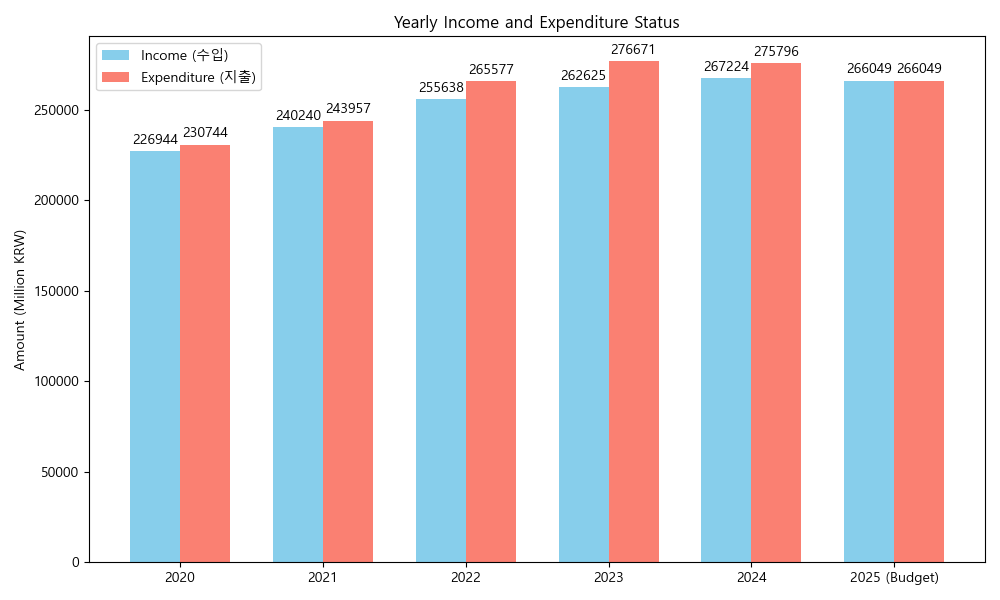
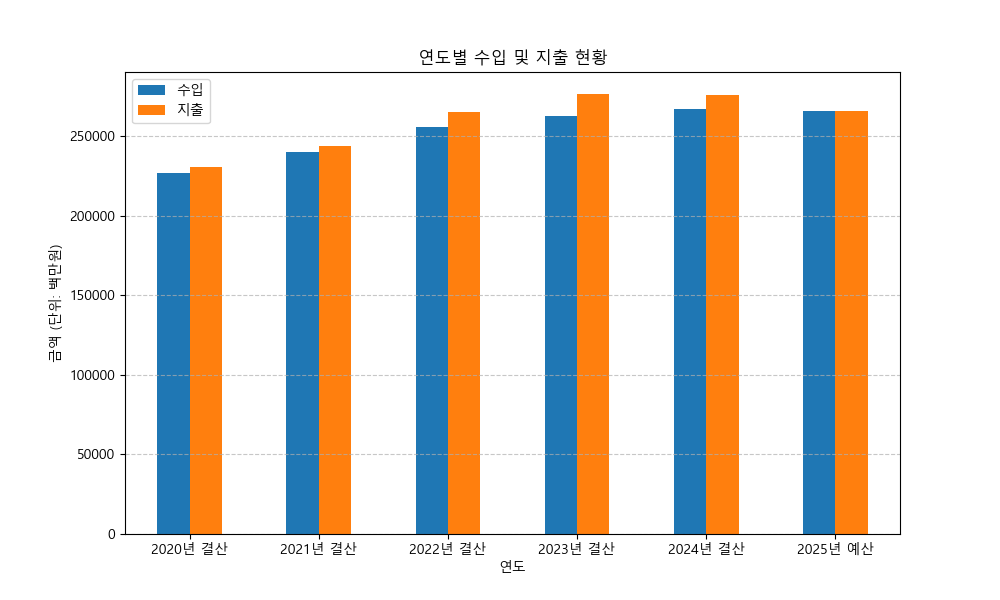
finalized

diff --git a/visualize_finance.py b/visualize_finance.py
@@ -1,36 +1,43 @@
+import pandas as pd
 import matplotlib.pyplot as plt
-import numpy as np
-import matplotlib as mpl
+from matplotlib import font_manager, rc
+import platform
 
-# Set font for Korean support if available, otherwise fallback might be needed but assuming standard env
-# Trying commonly available Korean fonts in Windows
-plt.rcParams['font.family'] = 'Malgun Gothic'
+# 1. CSV 파일 읽기
+df = pd.read_csv("연도별 수입 및 지출 현황.csv")
+
+# '연도' 컬럼을 인덱스로 설정 (만약 CSV에 '연도' 컬럼이 있다면)
+if '연도' in df.columns:
+    df.set_index('연도', inplace=True)
+
+# 2. 한글 폰트 설정 (Windows 환경)
+if platform.system() == 'Windows':
+    font_name = font_manager.FontProperties(fname="c:/Windows/Fonts/malgun.ttf").get_name()
+    rc('font', family=font_name)
+else:
+    # Mac이나 다른 환경일 경우 대비 (기본설정)
+    plt.rc('font', family='AppleGothic')
+
+# 마이너스 기호 깨짐 방지
 plt.rcParams['axes.unicode_minus'] = False
 
-# Data
-years = ["2020", "2021", "2022", "2023", "2024", "2025 (Budget)"]
-income = [226944, 240240, 255638, 262625, 267224, 266049]
-expenditure = [230744, 243957, 265577, 276671, 275796, 266049]
+# 3. 막대 그래프 그리기
+ax = df.plot(kind='bar', figsize=(10, 6), rot=0)
 
-x = np.arange(len(years))  # the label locations
-width = 0.35  # the width of the bars
+# 4. 그래프 꾸미기
+plt.title('연도별 수입 및 지출 현황')
+plt.xlabel('연도')
+plt.ylabel('금액 (단위: 백만원)')
+plt.legend(['수입', '지출'])
+plt.grid(axis='y', linestyle='--', alpha=0.7)
 
-fig, ax = plt.subplots(figsize=(10, 6))
-rects1 = ax.bar(x - width/2, income, width, label='Income (수입)', color='skyblue')
-rects2 = ax.bar(x + width/2, expenditure, width, label='Expenditure (지출)', color='salmon')
+# 5. 그래프 저장 및 출력
+output_file = "finance_graph.png"
+plt.savefig(output_file)
+print(f"그래프가 '{output_file}' 파일로 저장되었습니다.")
 
-# Add some text for labels, title and custom x-axis tick labels, etc.
-ax.set_ylabel('Amount (Million KRW)')
-ax.set_title('Yearly Income and Expenditure Status')
-ax.set_xticks(x)
-ax.set_xticklabels(years)
-ax.legend()
-
-ax.bar_label(rects1, padding=3)
-ax.bar_label(rects2, padding=3)
-
-fig.tight_layout()
-
-output_path = 'c:/Users/Ben/projects/antigravity_exercise/finance_graph.png'
-plt.savefig(output_path)
-print(f"Graph saved to {output_path}")
+# 팝업으로 보여주기 (환경에 따라 안 뜰 수도 있음)
+try:
+    plt.show()
+except:
+    pass

diff --git a/crawl_finance.py b/crawl_finance.py
@@ -1,0 +1,58 @@
+from io import StringIO
+import pandas as pd
+
+# ALIO 사이트의 수입/지출 데이터 (HTML 테이블 원본 요약)
+html_data = """
+<table border="1">
+<thead>
+<tr>
+<th>구분</th>
+<th>2020년 결산</th>
+<th>2021년 결산</th>
+<th>2022년 결산</th>
+<th>2023년 결산</th>
+<th>2024년 결산</th>
+<th>2025년 예산</th>
+</tr>
+</thead>
+<tbody>
+<tr>
+<td>수입합계</td>
+<td>226,944</td>
+<td>240,240</td>
+<td>255,638</td>
+<td>262,625</td>
+<td>267,224</td>
+<td>266,049</td>
+</tr>
+<tr>
+<td>지출합계</td>
+<td>230,744</td>
+<td>243,957</td>
+<td>265,577</td>
+<td>276,671</td>
+<td>275,796</td>
+<td>266,049</td>
+</tr>
+</tbody>
+</table>
+"""
+
+# HTML을 데이터프레임으로 변환
+df = pd.read_html(StringIO(html_data))[0]
+
+# '구분' 컬럼을 인덱스로 설정 (수입합계, 지출합계 행을 식별하기 위함)
+df.set_index('구분', inplace=True)
+
+# 행과 열을 바꿈 (연도가 행으로 오도록)
+df = df.T
+
+# 컬럼 이름 깔끔하게 정리
+df.columns = ['수입', '지출']
+df.index.name = '연도'
+
+# CSV 파일로 저장
+df.to_csv("연도별 수입 및 지출 현황.csv", encoding="utf-8-sig")
+
+print("작업 완료! 아래는 저장된 데이터 내용입니다.")
+print(df)

diff --git a/README.md b/README.md
@@ -1,0 +1,81 @@
+# Google Antigravity 설치 및 실습 가이드
+
+이 문서는 Google Antigravity의 설치 과정과 주요 기능을 이해하고, 간단한 실습을 통해 사용법을 익히기 위해 작성되었습니다.
+
+## 1. 설치 안내
+
+### 1) 다운로드
+Google Antigravity 공식 배포 사이트에서 Windows 또는 MacOS용 설치 파일을 다운로드합니다.
+```browser
+https://antigravity.google/download
+```
+
+### 2) 설치
+다운로드한 파일을 실행하여 설치를 진행합니다.
+*   **설치 폴더**: 최근의 경향에 따라 Antigravity도 사용자경로가 기본설치 경로입니다.
+
+### 3) 로그인
+설치 중 또는 실행 후 Google 계정으로 로그인을 진행합니다.   
+만약에 로그인은 하지 않으면 AI agent를 사용기능은 사용할 수 없음을 유의하시길 바랍니다.
+
+
+
+
+---
+
+## 2. 주요 설정
+
+Google Antigravity를 효과적으로 사용하기 위해 필요한 주요 설정입니다.
+
+### 1) 터미널 명령 승인 설정
+에이전트가 터미널 명령을 실행할 때, 사용자의 승인을 받도록 설정할 수 있습니다. 이를 통해 의도치 않은 명령 실행을 방지할 수 있습니다.
+설정/Agent 설정 항목에서
+Terminal Command Auto Execution을 Always Proceed와 Request Review 중 토글로 설정할 수 있습니다. 
+
+### 2) 외부 파일 인식 설정
+내 컴퓨터(로컬) 내에서 현재 열려 있는 프로젝트 폴더 외부의 파일을 에이전트가 인식하고 참조할 수 있도록 설정합니다.
+설정/Agent 설정 항목에서
+File Access 중
+Agent Non-Workspace File Access 를 on/off 할 수 있습니다. 
+
+### 3) 브라우저 사용 설정
+에이전트가 웹 브라우저를 제어하여 정보를 검색하거나 웹 기반 작업을 수행할 수 있도록 권한과 설정을 확인합니다.
+General 설정항목 중  Enable Agent Web Tools를 on/off 할 수 있습니다. 
+---
+
+## 3. 주요 기능
+
+Google Antigravity의 핵심적인 에이전트 기능입니다.
+
+### 1) Implementation Plan (구현 계획) 작성 및 승인
+사용자의 요청을 받으면 에이전트는 먼저 **Implementation Plan**을 스스로 작성합니다. 사용자는 이 계획을 검토하고 피드백을 주거나 승인할 수 있습니다.
+
+### 2) Task 생성 및 진행
+사용자의 승인이 완료되면, 에이전트는 구체적인 **Task** 목록을 생성하고 작업을 순차적으로 진행합니다.
+
+### 3) Walkthrough (검증 결과)
+모든 작업이 완료되면 **Walkthrough**를 통해 작업 결과와 검증 내용을 사용자에게 제시하여 최종 확인을 돕습니다.
+
+---
+
+## 4. 실습 가이드
+
+아래 순서대로 실습을 진행하며 Antigravity의 기능을 체험해 보세요.
+
+1.  **설치 파일 다운로드**: 공식 사이트 접속 및 다운로드.
+2.  **설치**: 프로그램 설치 완료.
+3.  **구글 계정 로그인**: 인증 절차 완료.
+4.  **브라우저 확장 프로그램 설치**: 필요한 경우 브라우저 연동을 위한 확장 프로그램 설치.
+5.  **프로젝트 폴더 열기**: Antigravity에서 실습할 프로젝트 폴더 열기.
+6.  **파이썬 경로 확인하기 (터미널 활용 예시)**
+    *   채팅창에 현재 시스템에서 사용 가능한 파이썬 경로를 알아내도록 명령합니다.
+    *   이때 필요한 프롬프트는 `프롬프트-파이썬경로.txt` 파일을 참고하여 입력하세요.
+7.  **가상환경(.venv) 활성화하기**
+    *   채팅창에 명령하여 현재 프로젝트의 `.venv` 가상환경을 활성화합니다.
+    *   이때 필요한 프롬프트는 `프롬프트-파이썬가상환경.txt` 파일을 참고하여 입력하세요.
+8.  **웹사이트 크롤링하기 (브라우저 활용 예시)**
+    *   채팅창에 명령하여 특정 웹사이트를 크롤링합니다.
+    *   이때 필요한 프롬프트는 `프롬프트-웹사이트크롤링.txt` 파일을 참고하여 입력하세요.
+9.  **그래프 그리기**
+    *   수집된 데이터를 시각화해달라고 채팅창에 명령합니다.
+    *   이때 필요한 프롬프트는 `프롬프트-그래프그리기.txt` 파일을 참고하여 입력하세요.
